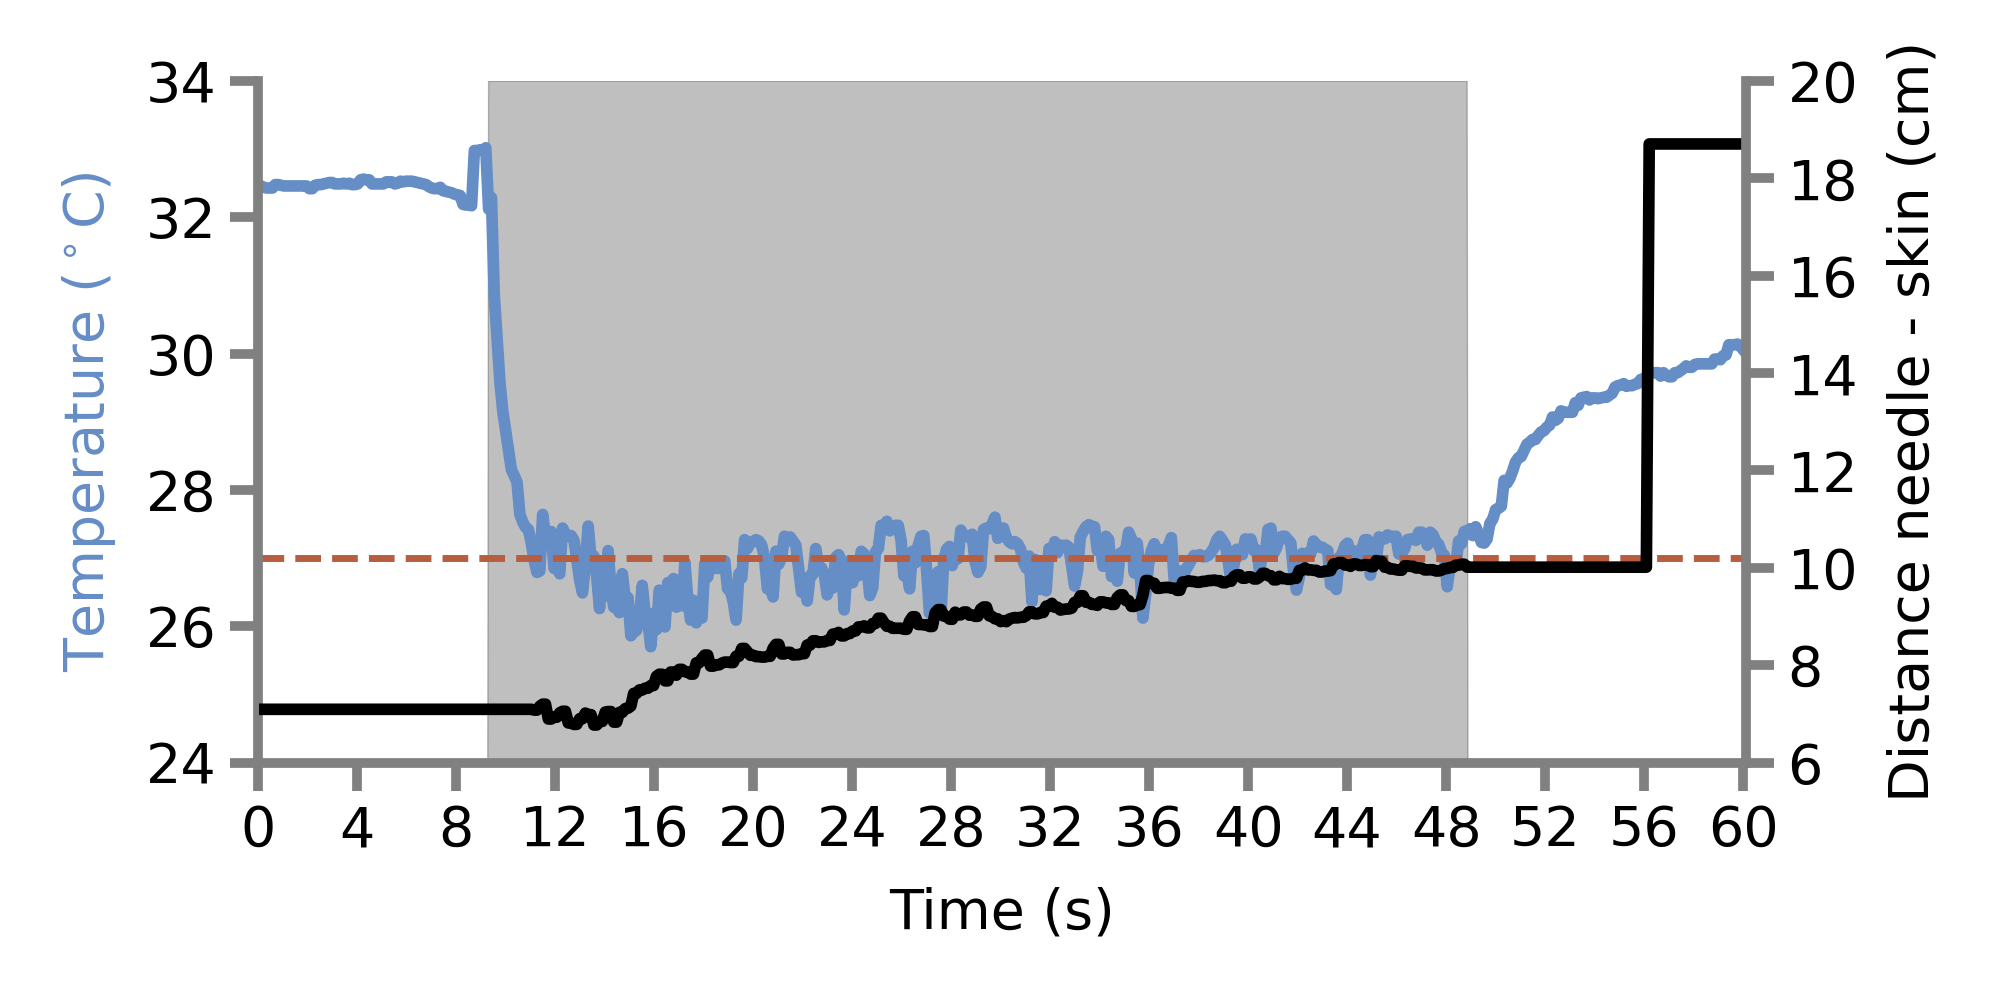
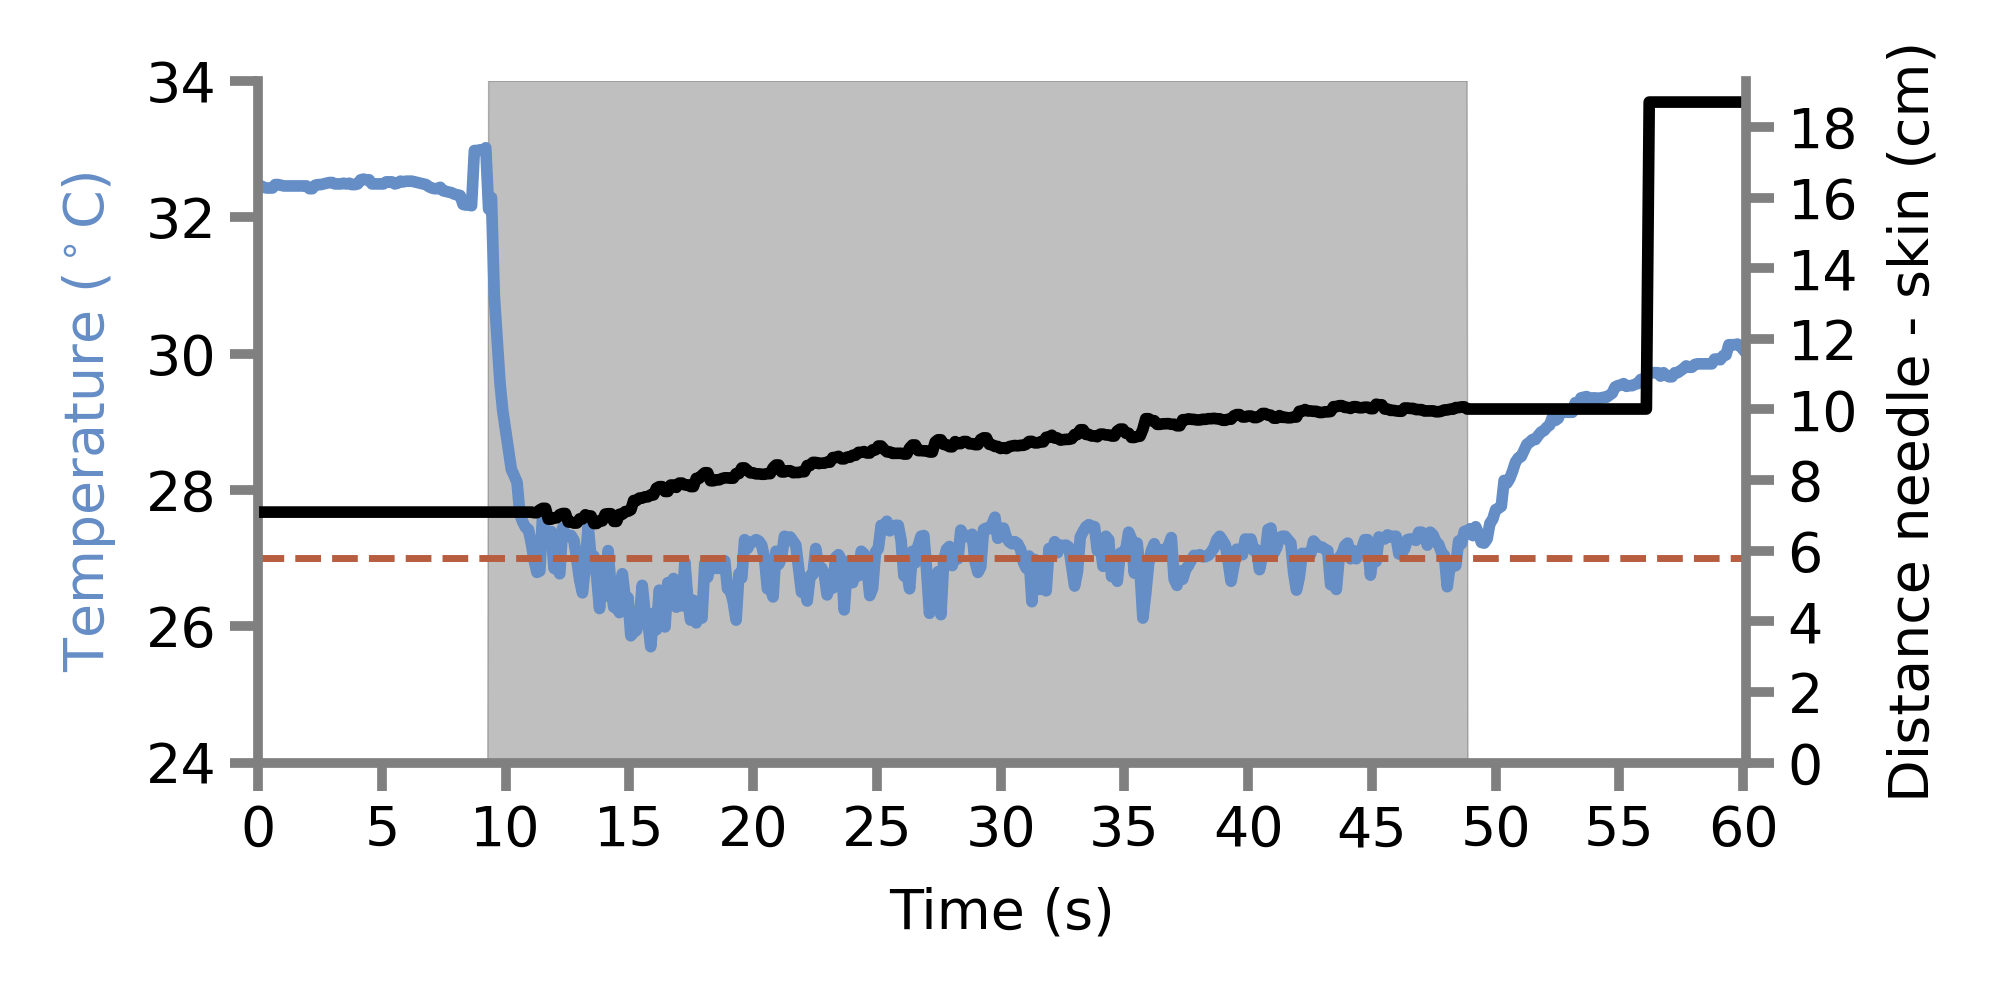
link to publication

diff --git a/code/analysis-plotting/figure1_scenario2.py b/code/analysis-plotting/figure1_scenario2.py
@@ -1,5 +1,4 @@
 # %%
-from turtle import color
 import matplotlib.pyplot as plt
 import numpy as np
 
@@ -32,22 +31,38 @@ for name_file in name_files:
     data[name_file]['shifted_traces'] = []
 
     # plot each iteration in a different plot
-    if len(data[name_file]['data'].means) >600:
-        cut_end = -248
+    if len(data[name_file]['data'].means) > 600:
+        cut_end = -298
         y_dat = data[name_file]['data'].means[:cut_end]
     else:
         cut_end = -2
-    ax.plot(np.arange(len(data[name_file]['data'].means[:cut_end])), data[name_file]['data'].means[:cut_end], color=colour_blue)
+    ax.plot(np.arange(len(data[name_file]['data'].means[:cut_end])), data[name_file]['data'].means[:cut_end], color=colour_blue, lw=lwD * 1.2)
     print(len(data[name_file]['data'].means[:cut_end]))
 
+ax.set_xlim([0, 530])
+ax.set_yticks(np.arange(24, 34.01, 2))
 
-# ax2 = ax.twinx()
-# ax2.plot(transformed_axis_cm, lw=lwD * 1.2, color="k")
-# ax.set_zorder(ax2.get_zorder() + 1)
+name_file = "scenario2_mainexample"
+cloA = shu_temp(f"{path_data}/examples/{name_file}")
+cloA.getParaPID()
+
+steps_mm = 0.00049609375
+zaber_offset = 302362 - np.max(cloA.zaber_pos)
+max_list_cm = (zaber_offset * steps_mm + 40) / 10
+
+transformed_zabers_axis = [np.max(cloA.zaber_pos) - pos for pos in cloA.zaber_pos]
+transformed_axis_mm = [tza * steps_mm for tza in transformed_zabers_axis]
+
+transformed_axis_cm = [tam / 10 + max_list_cm for tam in transformed_axis_mm]
+
+ax2 = ax.twinx()
+ax2.plot(transformed_axis_cm, lw=lwD * 1.2, color="k")
+ax.set_zorder(ax2.get_zorder() + 1)
+
 ax.patch.set_visible(False)
-ax2.set_ylim([6, 20])
-ax2.set_yticks(np.arange(6, 20.01, 2))
-framesToseconds(ax, 4, y_dat, int)  # np.max(self.objs_mean_temp))
+ax2.set_ylim([0, 20])
+ax2.set_yticks(np.arange(0, 20.01, 5))
+framesToseconds(ax, 5, y_dat, int)  # np.max(self.objs_mean_temp))
 ax.spines["top"].set_visible(False)
 ax2.spines["top"].set_visible(False)
 ax.spines["right"].set_visible(False)
@@ -74,27 +89,14 @@ for spine in ax2.spines.values():
 
 ax.set_ylabel("Temperature ($^\circ$C)", labelpad=20, color="#658DC6")
 ax.set_xlabel("Time (s)", labelpad=20)
-ax2.set_ylabel("Distance needle - skin (cm)", labelpad=20)
+ax2.set_ylabel("Distance nozzle - skin (cm)", labelpad=20)
 ax2.set_zorder(1)
 plt.tight_layout()
 
-plt.savefig(f'{path_figures}/figure1/panelC_scenario2_without_examplerobot.png', transparent=True)
+plt.savefig(f'{path_figures}/figure1/panelC_scenario2_with_examplerobot.png', transparent=True)
 
 
 # %% PID
-name_file = "scenario2_mainexample"
-cloA = shu_temp(f"{path_data}/examples/{name_file}")
-cloA.getParaPID()
-
-steps_mm = 0.00049609375
-zaber_offset = 302362 - np.max(cloA.zaber_pos)
-max_list_cm = (zaber_offset * steps_mm + 40) / 10
-
-transformed_zabers_axis = [np.max(cloA.zaber_pos) - pos for pos in cloA.zaber_pos]
-transformed_axis_mm = [tza * steps_mm for tza in transformed_zabers_axis]
-
-transformed_axis_cm = [tam / 10 + max_list_cm for tam in transformed_axis_mm]
-
 start = 0
 end = 532
 
@@ -118,10 +120,12 @@ fill_shade[idx_shu] = 34
 
 ax.fill_between(np.arange(len(y_dat)), fill_shade, y2=0, color="k", alpha=0.25)
 
+# secondar y axis
+ax2 = ax.twinx()
+ax2.plot(transformed_axis_cm, lw=lwD * 1.2, color="k")
+ax2.set_yticks(np.arange(0, 20, 5))
 
-
-
-framesToseconds(ax, 4, y_dat, int)  # np.max(self.objs_mean_temp))
+framesToseconds(ax, 5, y_dat, int)  # np.max(self.objs_mean_temp))
 ax.spines["top"].set_visible(False)
 ax2.spines["top"].set_visible(False)
 ax.spines["right"].set_visible(False)
@@ -151,8 +155,6 @@ ax.set_xlabel("Time (s)", labelpad=20)
 ax2.set_ylabel("Distance needle - skin (cm)", labelpad=20)
 ax2.set_zorder(1)
 plt.tight_layout()
-
-plt.savefig(f'{path_figures}/figure1/panelC_scenario2.png', transparent=True)
 
 
 # %%

diff --git a/code/analysis-plotting/figure1_scenario3.py b/code/analysis-plotting/figure1_scenario3.py
@@ -33,18 +33,26 @@ for name_file in name_files:
 
 # %%
 
-data['example1']['traces_start_end'] = [(247, 281)]
-data['example2']['traces_start_end'] = []
-data['example3']['traces_start_end'] = [(91, 125)]
+data['example1']['traces_start_end'] = [(94, 128)]
+data['example2']['traces_start_end'] = [(98, 132)]
+data['example3']['traces_start_end'] = [(169, 203)]
 data['example4']['traces_start_end'] = []
-data['example5']['traces_start_end'] = [(72, 106), (150, 184), (227, 261)]
+data['example5']['traces_start_end'] = [(72, 106), (150, 184)]
 
 for example in name_files:
     data[example]['traces'] = []
     for start_end in data[example]['traces_start_end']:
-        ax.axvspan(start_end[0], start_end[1], alpha=0.5, color='red')
-        print(start_end[1] - start_end[0])
-        data[example]['traces'].append(data[example]['data'].means[start_end[0]:start_end[1]])
+        start = start_end[0] - 4
+        end = start_end[1] + 5
+        fig, ax = plt.subplots(1, 1, figsize=(20, 10))
+        ax.plot(data[example]['data'].means[start:end], lw=lwD)
+        
+        # ax.axvspan(start, start_end[1], alpha=0.5, color='red')
+        # vertical lines
+        ax.axvline(9, color='k', linestyle='--')
+        ax.axvline(11, color='k', linestyle='--')
+        print(end - start)
+        data[example]['traces'].append(data[example]['data'].means[start:end])
 
     data[example]['traces'] = np.array(data[example]['traces'])
 
@@ -67,8 +75,8 @@ for index, trace in enumerate(all_traces):
 
 all_shifted_traces = np.array(all_shifted_traces)
 # plot all traces
-fig, ax = plt.subplots(1, 1, figsize=(20, 10))
-ax.plot(all_shifted_traces.T, color = colour_blue)
+fig, ax = plt.subplots(1, 1, figsize=(17, 10))
+ax.plot(all_shifted_traces.T, color = colour_blue, lw=4, alpha = 0.6)
 # plot mean
 ax.plot(np.mean(all_shifted_traces, axis = 0), color = colour_blue,  lw=lwD * 1.2,)
 
@@ -80,7 +88,7 @@ ax.set_ylim([25, 34])
 ax.set_yticks(np.arange(24, 34.01, 2))
 
 fill_shade = np.zeros(len(all_shifted_traces[0, :]))
-fill_shade[5:31] = 34
+fill_shade[9:34] = 34
 
 ax.fill_between(np.arange(len(all_shifted_traces[0, :])), fill_shade, y2=0, color="k", alpha=0.25)
 
@@ -111,16 +119,20 @@ plt.savefig(f'{path_figures}/figure1/panelD_scenario3.png', transparent = True)
 
 
 # %% plot all slopes
-all_slopes = []
+all_slopes_diff = []
+all_slopes_degrees_diff = []
+start = 9
+end = start + 2
 for trace in all_shifted_traces:
-    all_slopes.append(np.mean(np.diff(trace[5:7])))
-    print((trace[7] - trace[6]) /0.1)
-print(all_slopes)
-print(len(all_slopes))
+    all_slopes_diff.append(np.mean(np.diff(trace[start:end])))
+    temp_degrees_change = (trace[end] - trace[start]) / ((end-start)/10)
+    all_slopes_degrees_diff.append(temp_degrees_change)
+    
+print(all_slopes_degrees_diff)
 
-print(np.mean(all_slopes))
-print(np.std(all_slopes))
+print('mean: ', abs(round(np.mean(all_slopes_degrees_diff))))
+print('sd: ', round(np.std(all_slopes_degrees_diff)))
 
 
 
-# %%
+ # %%

diff --git a/README.md b/README.md
@@ -1,14 +1,30 @@
 # A novel method to selectively elicit cold sensations without touch :snowflake::cold_face::call_me_hand:
+[Version in Journal of Methods Neuroscience](https://www.sciencedirect.com/science/article/pii/S0165027022002898)
 [Version in Biorxiv](https://www.biorxiv.org/content/10.1101/2022.06.14.496120v1)
 [Data repository]()
 
-:warning: Code will be available once the paper has been accepted for publication
-
 ## Highlights :star::zap:
-TBD
+- Most studies on cold sensation fail to control for concomitant tactile input.
+- A method to deliver non-tactile cooling stimuli was developed.
+- The method combines dry ice, a thermal camera, and motorised stages.
+- The method delivers rapid ramps and feedback-controlled pulses.
+- Thresholds for contactless cold perception were estimated in humans
 
 ## Abstract :page_with_curl:
-TBD
+### Background
+Thermal and tactile stimuli are transduced by different receptor classes. However, mechano- and thermo-sensitive afferents interact at spinal and supraspinal levels. Yet, most studies on responses to cooling stimuli are confounded by mechanical contact, making these interactions difficult to isolate. Methods for precise control of non-mechanical thermal stimulations remain challenging, particularly in the cold range.
+
+### New Method
+We developed a non-tactile, focal, temperature-controlled, multi-purpose cooling stimulator. This method controls the exposure of a target skin region to a dry-ice source. Using a thermal camera to monitor skin temperature, and adjusting the source-skin distance accordingly, we could deliver non-tactile cooling stimuli with customisable profiles, for studying different aspects of cold sensation.
+
+### Results
+To validate our method, we measured absolute and relative thresholds for cold sensation without mechanical contact in 13 human volunteer participants, using the method of limits. We found that the absolute cold detection threshold was 32.71 oC ± 0.88 oC. This corresponded to a threshold relative to each participant’s baseline skin temperature of -1.08 oC ± 0.37 oC.
+
+### Comparisons with Existing Method
+Our method allows cooling stimulation without the confound of mechanical contact, in a controllable and focal manner.
+
+### Conclusions
+We report a non-contact cooling stimulator and accompanying control system. We used this to measure cold thresholds in the absence of confounding touch. Our method enables more targeted studies of both cold sensory pathways, and of cold-touch interactions.
 
 ## Authors :man_scientist::woman_scientist:
 - Ivan Ezquerra-Romano
@@ -17,7 +33,7 @@ TBD
 - Gian Domenico Iannetti
 - Patrick Haggard
 
-**Keywords:** :key: TBD
+**Keywords:** Thermoception, Perception, Sensation, Temperature, Mechanosensation, Cold
 
 
 ### Environment :computer::floppy_disk:
